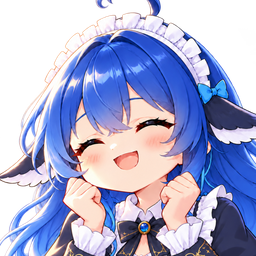
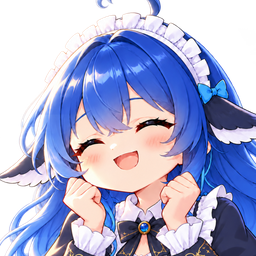
第三步完成：左侧冷白窗光按 round19 的样子用程序画（rim_light）

diff --git a/tools/char_layers.py b/tools/char_layers.py
@@ -42,7 +42,11 @@ SHADOW_MAX = 0.75
 # 贴边窄阴影的颜色（乘色）：取自 GPT round18 手肘下的接触阴影（约 (151,119,106) → (113,76,67)），略浅一点；
 # 四个表情用同一个，切换时贴边阴影深浅一致（各张实测的中位数差很多，不用）
 CONTACT_TINT = (0.80, 0.70, 0.68)
-BROAD_TINT = (0.90, 0.82, 0.80)     # 右下柔和阴影的乘色（GPT 大面积阴影的平均深浅）
+BROAD_TINT = (0.90, 0.82, 0.80)
+# 第三步光泽感：左侧冷白窗光（照着 GPT round19 的样子）
+RIM_COLOR = (205, 238, 255)   # 浅青白
+RIM_W, RIM_K = 10, 0.85       # 亮边：约 10px 衰减，最亮处滤色 85%
+RIM_SOFT, RIM_SOFT_K = 70, 0.30   # 漫射：约 70px 衰减，30%
 THUMB_BOX = tuple(v * S for v in (34, 77, 944, 987))   # 头部框，和以前合成图缩略图的框是同一处
 FRONT_BOX = (634, 330, 760, 615)  # 羽毛笔和墨水瓶所在范围（合成图坐标）
 # 墨水瓶轮廓和插进瓶口的那段笔杆（书桌原图 1405 宽坐标；固定书桌不变，所以用固定多边形）。
@@ -59,6 +63,32 @@ FIG_K = 0.465 * FIG_SCALE # 立绘坐标 → 合成图坐标
 DESK_BACK = 515           # 固定书桌桌面后沿（合成图坐标）
 EDGE = round(((DESK_BACK - FIG_Y) / FIG_K + 3) * S)   # 桌面后沿换成立绘坐标（relit3 原图），加 3px 余量
 CANVAS_DY = 27             # 只用于给 GPT 的输入图：整张画面往下移的像素（角色上提后呆毛会超出画布顶部）
+
+
+def rim_light(a):
+    """第三步光泽感：左边窗户来的冷白光。GPT 画的 round19 有这个效果，但它这一轮把细节重画了不少，按比值搬过来脸会发花，
+    所以照着 round19 的样子用程序画（四张完全一致）：
+    - 亮边：人物每个朝左的轮廓（左边是透明的地方）往里 RIM_W px 内，用滤色叠一层浅青白光，越靠边越亮；
+    - 漫射：往里 RIM_SOFT px 内很淡的一层，让左侧整体通透一点；
+    - 越靠画面左边、越靠上越强（窗在左上），桌沿以下不加。"""
+    al = a[..., 3] / 255
+    inside = al > 0.35
+    h, w = inside.shape
+    # 每个像素往左数连续的人物像素个数（到左边透明处的距离）
+    d = np.zeros((h, w), float)
+    run = np.zeros(h, float)
+    for x in range(w):
+        run = np.where(inside[:, x], run + 1, 0)
+        d[:, x] = run
+    d = ndimage.gaussian_filter(d, 1.0 * S)
+    yy = np.arange(h)[:, None] * np.ones((1, w))
+    xx = np.arange(w)[None, :] * np.ones((h, 1))
+    reach = np.clip(1.15 - xx / (w * 0.75), 0, 1) * np.clip(1.1 - yy / (EDGE * 1.05), 0, 1)
+    rim = np.exp(-d / (RIM_W * S)) * RIM_K + np.exp(-d / (RIM_SOFT * S)) * RIM_SOFT_K
+    rim = ndimage.gaussian_filter(rim * reach * inside, 0.8 * S)[..., None]
+    c = np.array(RIM_COLOR) / 255
+    a[..., :3] = 255 - (255 - a[..., :3]) * (1 - rim * c)   # 滤色
+    return a
 
 
 def char_layer(src, shade=True, gpt=None):
@@ -84,6 +114,7 @@ def char_layer(src, shade=True, gpt=None):
     if gpt is not None:   # 第二步：人物贴桌部分的明暗取自 GPT（round18），桌面阴影的形状按 relit3 轮廓生成
         fig = gpt[0]
         a[..., :3] *= fig
+        a = rim_light(a)   # 第三步：左侧窗光的亮边
         # 桌面阴影不再用 GPT 的比值：GPT 把头发、书页画得和 relit3 不一样，这些差别会变成灰色色块（用户发现两次）。
         # 改为以 relit3 为准：只用桌沿以下、不是头发的部分（手臂、手、袖子）的轮廓，生成贴边窄阴影 + 右下柔和阴影，
         # 颜色取 GPT 手肘下接触阴影的颜色（CONTACT_TINT / BROAD_TINT，四个表情一致）。
@@ -293,6 +324,16 @@ def gpt_shading(gpt_path, inp_path, mask_path):
     f = to_portrait(rd, 1)
     print(f'  fit sx {sx:.4f} sy {sy:.4f} dx {dx:+.1f} dy {dy:+.1f}; drift {np.round(drift, 3)}; contact tint {np.round(tint, 3)}')
     return fig, f, tint
+
+
+def to_portrait(f, scale, fill=255):
+    """输入图坐标（1405×1120，含 CANVAS_DY）的系数图 → 立绘坐标（scale = S 时是人物层分辨率，1 时是半分辨率）。"""
+    img = Image.fromarray(np.clip(f * 255, 0, 255).astype('uint8'))
+    k = FIG_K / scale
+    size = (round(W / S * scale), round((H + PAD) / S * scale))
+    out = img.transform(size, Image.AFFINE, (k, 0, FIG_X + 250, 0, k, FIG_Y + CANVAS_DY), resample=Image.BICUBIC,
+                        fillcolor=(fill, fill, fill))
+    return np.asarray(out).astype(float) / 255
 
 
 def main():

diff --git a/docs/交接说明.md b/docs/交接说明.md
@@ -94,7 +94,7 @@ node tools/devtools.mjs eval "<JS>"                               # 查 DOM
    - **当前：分三步做光影**（用户决定，2026-10-04）。提示词都在 `<素材目录>/round17/`：
      1. **已完成**（参数 230, −17, 0.96, CANVAS_DY 27，陪伴栏已同步）`第一步-codex-位置-提示词.md`：Codex 调 `tools/char_layers.py` 的 `FIG_X/FIG_Y/FIG_SCALE/CANVAS_DY`（用户手动调过一张：角色约缩小 4%、上提），重新生成 `round17/输入/`。Claude 验收后同步 `skin.css` 人物层位置（按这几个数换算）、重跑人物层、安装截图给用户确认。
      2. **已完成**（round18，阴影用 `--shade-from` 搬到高清图层，见修改记录）`第二步-GPT-阴影-提示词.md`：GPT 只加接触阴影、颜色亮度不许改，交付 `round18/`。Claude 验收（对位、颜色差 ≤ 5、阴影暖粉不发黑），用蒙版合成到陪伴栏给用户看。
-     3. `第三步-GPT-光泽感-提示词.md`：在 round18 上加左侧冷白窗光和头发逆光，交付 `round19/`。画不好的退路：Claude 用程序加亮边和颜色校正。
+     3. **已完成**（round19 只作参考，左侧窗光由 `rim_light` 程序画，见修改记录）`第三步-GPT-光泽感-提示词.md`：在 round18 上加左侧冷白窗光和头发逆光，交付 `round19/`。画不好的退路：Claude 用程序加亮边和颜色校正。
    - round17 第一批（`round17/combo-*.png`，按上提 25px 的输入画）验收结果：三张对位对、默认低了 25px 且呆毛和左耳有涂抹；全部偏黄偏暗、没有逆光；呆毛被画布切掉。不用。
    - （被 round17 取代，暂不需要）relit3 默认、眨眼两张的手改成平放压着书页（提示词 `<素材目录>/relit3-手平放-提示词.md`，交付 `round16/`），到了以后验收，再 `python3 tools/char_layers.py --src <素材目录>/round6/relit3 --override <素材目录>/round16` 重跑。
    - 人物用 relit3，清晰；书桌仍是 GPT 的 1405×1120（约放大 1.6 倍显示），需要的话单独放大书桌。

diff --git a/docs/修改记录.md b/docs/修改记录.md
@@ -209,6 +209,14 @@ osascript -e 'quit app "DeepSeek Harness"' && open -a "DeepSeek Harness"
 
 ## 五、版本记录
 
+### 2026-10-04 · 第三步完成：左侧冷白窗光（照 GPT round19 的样子用程序画）
+
+- 备份：`backup/接入GPT光泽前-20261004-142559`。
+- round19 验收：四张都有左侧逆光（头发左缘亮度比 round18 高 15–28），衬衫、皮肤的蓝色略升、不再偏黄；但 GPT 这一轮把整张往上挪约 18px、竖向拉伸约 4.6%（四张相同，按书桌轮廓拟合可校正），并把脸、头发线条重画了不少。
+- 试过按比值把 round19 相对 round18 的变化搬到高清人物上（对齐、模糊 5px、除以中位数去掉整体偏暖）：脸和头发发花、发白，不能用。
+- 按提示词里的退路改为程序画（`tools/char_layers.py` 的 `rim_light`，四张完全一致）：每个朝左的轮廓往里 10px 衰减的浅青白亮边（滤色 85%）+ 70px 衰减的漫射（30%），颜色 (205,238,255)；越靠左上越强，桌沿以下不加。效果对照 round19：左侧头发、耳朵通透发亮，脸和线条保持 relit3 的清晰。
+- 验证：build + verify 72/72，包体 6.79 MB；四个表情应用截图正常。截图 `/Volumes/LQ1000/陪伴栏-光泽感.png`（本机）。
+
 ### 2026-10-04 · 固定书桌改用整张图，启动时书桌不再被切断
 
 - 备份：`backup/书桌改用整张前-20261004-123616`。
